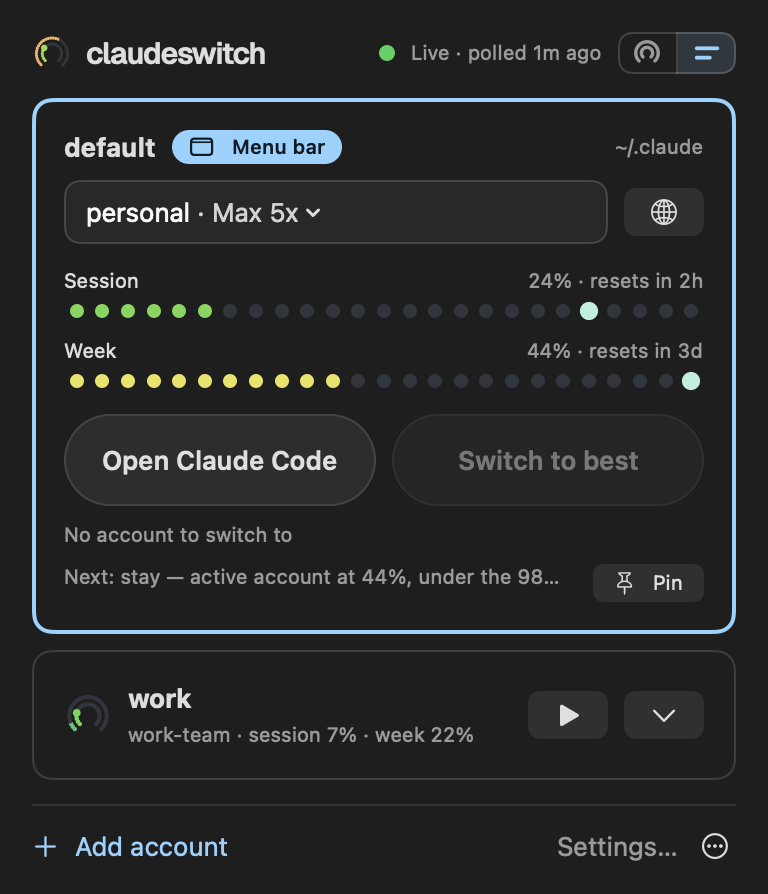
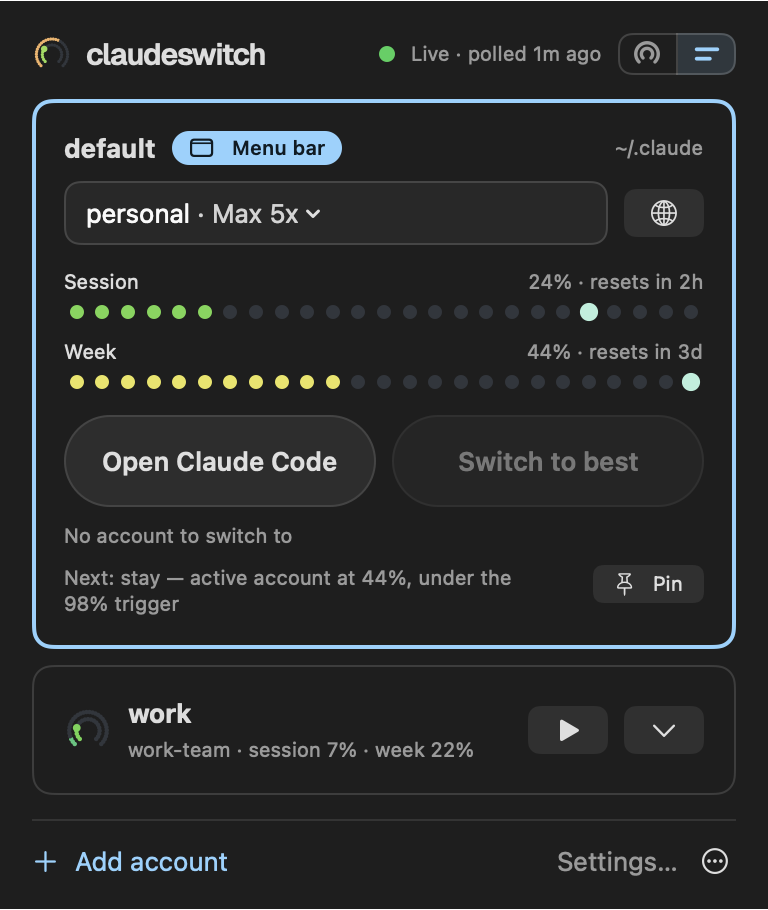
Release 0.7.7
A note in Settings no longer pushes the window's content under its
title bar, and the popover's "Next:" line wraps instead of being cut.

diff --git a/macos/Sources/ClaudeSwitchBar/PopoverView.swift b/macos/Sources/ClaudeSwitchBar/PopoverView.swift
@@ -251,9 +251,13 @@ struct ProfileCardView: View {
             }
             HStack(alignment: .top, spacing: 8) {
                 if card.nextVisible {
+                    // Its full height, up to three lines: given only one
+                    // line's it was cut ("…under the 98…"). The popover has a
+                    // fixed width, so the height is measured against it.
                     Text("Next: " + nextText)
                         .font(.caption).foregroundStyle(.secondary)
                         .lineLimit(3)
+                        .fixedSize(horizontal: false, vertical: true)
                         .help(nextText)
                 }
                 Spacer(minLength: 0)
@@ -648,13 +652,23 @@ struct NoteBanner: View {
     var body: some View {
         HStack(alignment: .top, spacing: 8) {
             Image(systemName: "checkmark.circle.fill").foregroundStyle(.green)
-            Text(text).font(.caption).textSelection(.enabled).fixedSize(horizontal: false, vertical: true)
-            Spacer()
+            // Up to four lines across the width it is given, not fixed to its
+            // ideal height: in Settings the banner sits in the window's
+            // bottom inset, where the window asks for an ideal size with no
+            // width, and a fixed height then came back as one word a line.
+            // The window's content was then taller than the window, and
+            // AppKit pushed its top under the title bar (2026-10-21).
+            Text(text).font(.caption).textSelection(.enabled)
+                .lineLimit(1...4)
+                .frame(maxWidth: .infinity, alignment: .leading)
             Button(action: dismiss) { Image(systemName: "xmark") }
                 .buttonStyle(.borderless)
                 .accessibilityLabel("Dismiss")
         }
         .padding(8)
         .background(RoundedRectangle(cornerRadius: 8).fill(Color.green.opacity(0.1)))
+        // Opaque under the tint: rows scrolled beneath the banner showed
+        // through its text.
+        .background(RoundedRectangle(cornerRadius: 8).fill(Color(nsColor: .windowBackgroundColor)))
     }
 }

diff --git a/README.md b/README.md
@@ -7,7 +7,7 @@ stands, and hot-swaps Claude Code onto a fresh account before the current one
 hits its limit: no restart, no lost session. It ships as a Go CLI plus daemon
 (macOS and Linux), a native macOS menu-bar app and a Claude Code plugin.
 
-Latest release: **v0.7.6**
+Latest release: **v0.7.7**
 ([releases](https://github.com/bogdan-alexandrescu/claudeswitch/releases)).
 
 <p align="center"><img src="docs/images/popover.png" width="384" alt="The ClaudeSwitch menu-bar popover: the daemon is live, the default profile is on work-1 and the work profile is on work-team"></p>
@@ -136,7 +136,7 @@ arm64, and a `checksums.txt`. The archives are reproducible: the same tag
 always produces the same bytes.
 
 ```sh
-VERSION=v0.7.6
+VERSION=v0.7.7
 TARGET=darwin_arm64            # darwin_amd64, linux_amd64, linux_arm64
 BASE=https://github.com/bogdan-alexandrescu/claudeswitch/releases/download/$VERSION
 curl -LO "$BASE/claudeswitch_${VERSION}_${TARGET}.tar.gz"
@@ -162,7 +162,7 @@ cd claudeswitch
 symlink, and installs the daemon in dry-run (see [Daemon](#daemon)). To build
 the binary alone: `go build -o bin/claudeswitch ./cmd/claudeswitch`.
 
-**Verify it worked:** `cs version` prints `claudeswitch v0.7.6` for the release
+**Verify it worked:** `cs version` prints `claudeswitch v0.7.7` for the release
 binary (a build from source prints `claudeswitch dev`). If the shell cannot
 find `cs`, add `~/.local/bin` to your `PATH`.
 
@@ -233,7 +233,7 @@ Re-run it after pulling to update.
 From a release, as a universal build:
 
 ```sh
-VERSION=v0.7.6
+VERSION=v0.7.7
 BASE=https://github.com/bogdan-alexandrescu/claudeswitch/releases/download/$VERSION
 ZIP="ClaudeSwitch-${VERSION#v}-macos.zip"
 curl -LO "$BASE/$ZIP"
@@ -259,7 +259,7 @@ to install it. [macos/README.md](macos/README.md) has the details.
 
 **Verify it worked:** the Twin rings glyph with the live account and its
 utilization appears in the menu bar, and **About ClaudeSwitch** in its ⋯ menu
-shows version 0.7.6. If you see nothing on a MacBook with a notch, see
+shows version 0.7.7. If you see nothing on a MacBook with a notch, see
 [Troubleshooting](#troubleshooting).
 
 ### Claude Code plugin

diff --git a/docs/TUTORIAL.md b/docs/TUTORIAL.md
@@ -46,7 +46,7 @@ Pick the archive for your machine (`darwin_arm64` for Apple silicon,
 put the binary in `~/.local/bin` with `cs` as a short name for it:
 
 ```sh
-VERSION=v0.7.6
+VERSION=v0.7.7
 TARGET=darwin_arm64
 BASE=https://github.com/bogdan-alexandrescu/claudeswitch/releases/download/$VERSION
 curl -LO "$BASE/claudeswitch_${VERSION}_${TARGET}.tar.gz"
@@ -65,7 +65,7 @@ cs version
 ```
 
 ```
-claudeswitch v0.7.6
+claudeswitch v0.7.7
 ```
 
 If your shell says `cs: command not found`, add `~/.local/bin` to your `PATH`

diff --git a/docs/cli/setup.md b/docs/cli/setup.md
@@ -182,7 +182,7 @@ cs -v
 cs --version
 ```
 
-Prints the build: `claudeswitch v0.7.6` for a release binary,
+Prints the build: `claudeswitch v0.7.7` for a release binary,
 `claudeswitch dev` for a build from source (fixture `version.txt`). With no
 command at all, `cs` prints the version line and every command with a
 one-line description, and exits 2:
